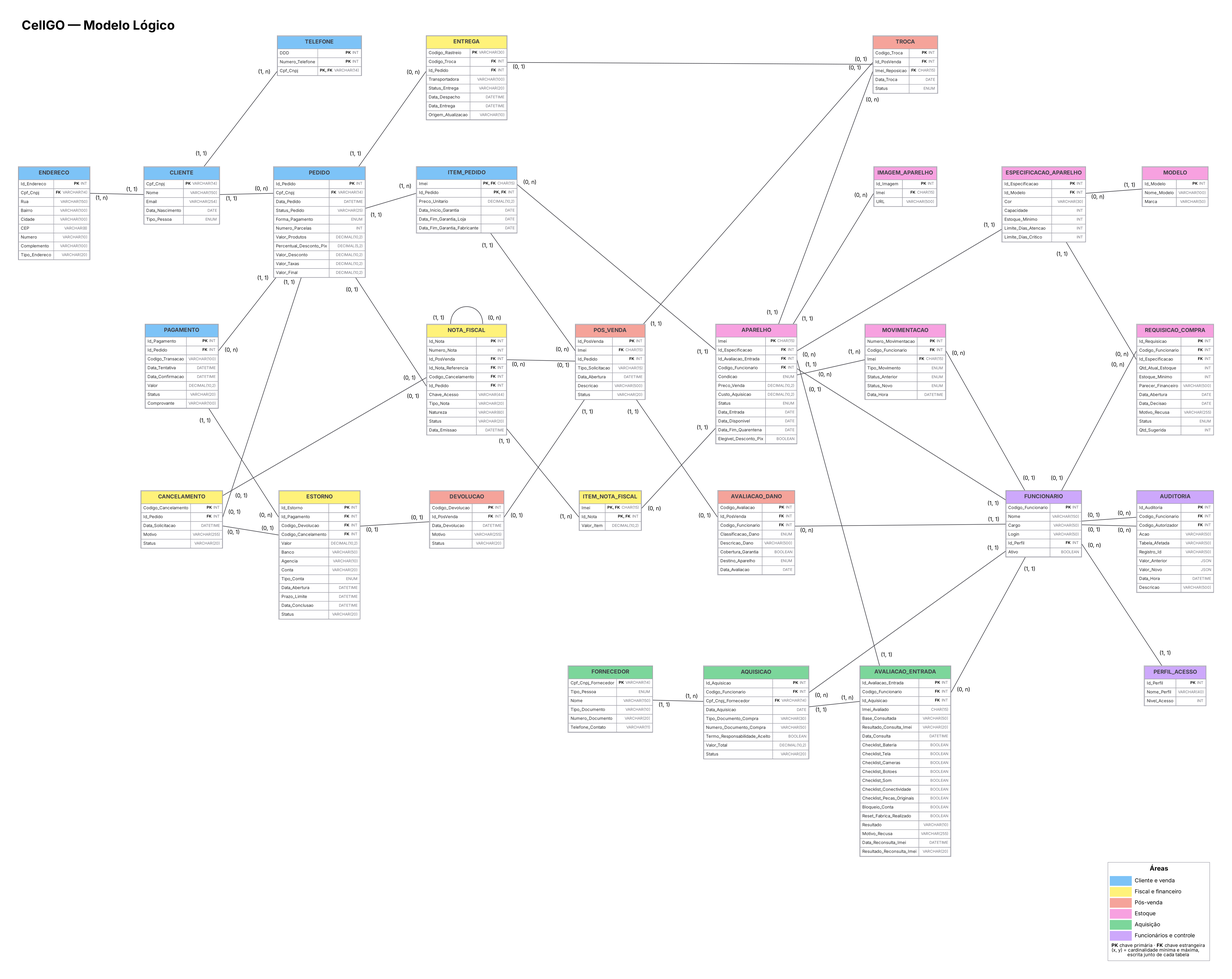
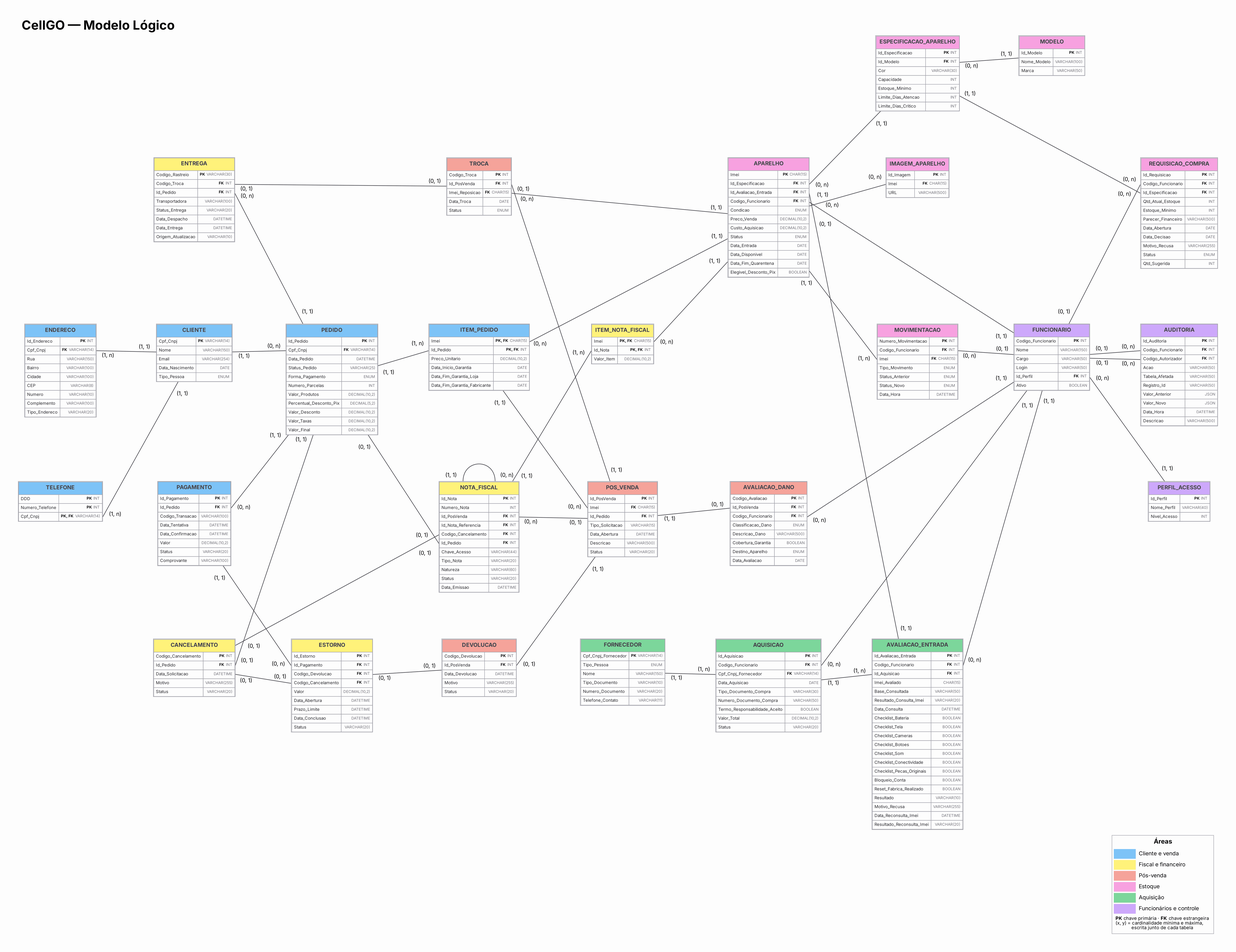
docs: remove boleto das formas de pagamento
Formas aceitas: somente Pix (sempre à vista) e cartão de crédito (1 a 12 parcelas). Atualiza caracterização, processos, fluxograma, RF-08, RF-09, RF-16, RNF-08, RN-10, RN-11, RN-19, Condições de Pagamento, dicionário de dados (ENUM de Forma_Pagamento e remoção dos dados bancários de ESTORNO), justificativas, conclusão e modelo lógico.

diff --git a/README.md b/README.md
@@ -24,7 +24,7 @@ CellGo Comércio de Celulares Ltda.
 E-commerce de celulares novos e seminovos.
 
 **O que ela vende ou oferece?**  
-Smartphones novos, lacrados e com garantia de fábrica; smartphones seminovos, revisados e certificados, com garantia própria da loja; pagamento por Pix, boleto ou cartão de crédito em até 12 parcelas; e vendas somente pelo canal on-line.
+Smartphones novos, lacrados e com garantia de fábrica; smartphones seminovos, revisados e certificados, com garantia própria da loja; pagamento somente por Pix (à vista) ou cartão de crédito (de 1 a 12 parcelas); e vendas somente pelo canal on-line.
 
 **Quem são seus principais clientes?**  
 Consumidores finais (pessoa física) que buscam smartphones com procedência garantida e preço mais acessível do que o de aparelhos novos — tanto quem quer um aparelho novo quanto quem prefere um seminovo confiável em vez de comprar no mercado informal. A empresa também atende pessoa jurídica, já que o cadastro de clientes contempla CNPJ além de CPF.
@@ -162,7 +162,7 @@ Esse caso é adequado para um projeto de modelagem de dados porque, além de par
 
 **Processo de venda em sequência**
 
-Cliente → Login/Cadastro → Escolha do aparelho → Verificação de disponibilidade → Escolha da forma de pagamento (Pix, cartão de crédito em até 12x ou boleto) → Apresentação do valor final (desconto no Pix ou valor das parcelas) → Confirmação da compra e pagamento → Confirmação do pagamento e nova verificação de disponibilidade → Aparelho marcado como Vendido → Emissão da nota fiscal → Separação do pedido → Envio pela transportadora (Em transporte) → Rastreamento → Entrega ao cliente (Entregue)
+Cliente → Login/Cadastro → Escolha do aparelho → Verificação de disponibilidade → Escolha da forma de pagamento (Pix à vista ou cartão de crédito em até 12x) → Apresentação do valor final (desconto no Pix ou valor das parcelas) → Confirmação da compra e pagamento → Confirmação do pagamento e nova verificação de disponibilidade → Aparelho marcado como Vendido → Emissão da nota fiscal → Separação do pedido → Envio pela transportadora (Em transporte) → Rastreamento → Entrega ao cliente (Entregue)
 
 **Se o aparelho estiver indisponível na escolha:**
 
@@ -287,15 +287,17 @@ O sistema deve calcular automaticamente o valor final da venda pela fórmula: Va
 O sistema deve aplicar o desconto automaticamente quando o pagamento for via Pix e o produto for elegível.
 
 - Faixas de desconto: produto de até R$ 1.000,00 = 5%; de R$ 1.001,00 a R$ 2.500,00 = 7%; acima de R$ 2.500,00 = 10%.
-- Não há desconto para pagamento com cartão de crédito ou boleto.
+- Não há desconto para pagamento com cartão de crédito.
 - O desconto deve ser mostrado antes da confirmação da compra. Se o produto não for elegível, o cliente também deve ser informado.
 - O percentual e o valor do desconto devem ficar registrados na venda.
 
 **RF-09 – Processar formas de pagamento** 
 
-O sistema deve aceitar apenas Pix, cartão de crédito e boleto bancário. Cartão de débito e dinheiro não são aceitos.
+O sistema deve aceitar apenas duas formas de pagamento: **Pix** e **cartão de crédito**. Boleto bancário, cartão de débito e dinheiro não são aceitos.
 
-- A forma de pagamento é obrigatória em toda venda e é escolhida no pedido, junto com o número de parcelas (no máximo 12, apenas no cartão de crédito).
+- A forma de pagamento é obrigatória em toda venda e é escolhida no pedido, junto com o número de parcelas.
+- Pix: pagamento sempre à vista (1 parcela), com desconto quando o produto for elegível (RF-08) e sem juros.
+- Cartão de crédito: de 1 a 12 parcelas, sem desconto Pix; juros ou taxas do parcelamento, quando houver, são mostrados antes da confirmação (RF-06).
 - Cada pedido é pago com uma única forma de pagamento. Não é permitido dividir o valor entre formas diferentes.
 - Cada cobrança enviada à instituição de pagamento é registrada como um pagamento (uma tentativa), com data, valor, código da transação e status: Pendente, Aprovado, Recusado, Expirado ou Estornado.
 - Um pedido pode ter várias tentativas (por exemplo, um Pix expirado seguido de um novo Pix), mas no máximo um pagamento Aprovado.
@@ -375,7 +377,7 @@ O sistema deve registrar a avaliação técnica de todo aparelho com dano e defi
 O sistema deve processar a devolução de valores ao cliente em casos de cancelamento ou devolução. A troca não gera estorno, pois o aparelho de reposição tem valor igual ou superior e não há cobrança nem devolução de diferença (RF-11).
 
 - Todo estorno é ligado ao pagamento Aprovado que está sendo revertido.
-- O estorno segue a forma de pagamento original: Pix, para a chave ou conta de origem; cartão de crédito, junto à operadora do cartão; boleto, por transferência bancária para a conta informada pelo cliente.
+- O estorno segue a forma de pagamento original: Pix, por devolução para a conta de origem do pagamento; cartão de crédito, por estorno solicitado à operadora do cartão. Como não há boleto, o sistema não precisa pedir nem guardar dados bancários do cliente.
 - O processo completo deve ser concluído em 7 a 15 dias corridos.
 - O sistema deve registrar o valor, a data de abertura, o prazo-limite (data de abertura + 15 dias) e o status do estorno: Pendente, Processado ou Recusado.
 - Se o prazo-limite for ultrapassado com o estorno ainda Pendente, o sistema deve sinalizá-lo como Atrasado (situação calculada, não um status gravado) e notificar o setor Financeiro/Administrativo.
@@ -541,7 +543,7 @@ Os registros de auditoria não podem ser alterados nem excluídos depois de grav
 O sistema deve se comunicar com os seguintes serviços externos:
 
 - SEFAZ, para emissão e cancelamento de notas fiscais eletrônicas;
-- instituições de pagamento e operadoras de cartão, para Pix, cartão de crédito, boleto e estornos;
+- instituições de pagamento e operadoras de cartão, para cobranças por Pix e cartão de crédito e para os estornos;
 - transportadora, para o rastreamento das entregas.
 
 
@@ -714,7 +716,7 @@ O sistema deve garantir que valores e prazos sejam calculados corretamente.
 - O desconto é aplicado somente quando a forma de pagamento é Pix.
 - Faixas confirmadas: produto até R$ 1.000,00 = 5%; de R$ 1.001,00 a R$ 2.500,00 = 7%; acima de R$ 2.500,00 = 10%.
 - Nem todos os produtos participarão do desconto Pix: a elegibilidade de cada produto ao desconto deverá ser configurável no cadastro do aparelho (RN-02).
-- Não será aplicado desconto para pagamentos via cartão de crédito ou boleto.
+- Não será aplicado desconto para pagamentos via cartão de crédito.
 - O desconto deverá ser apresentado ao cliente antes da confirmação da compra, incluindo os casos em que o produto não é elegível ao desconto.
 - O sistema deverá registrar o percentual e o valor do desconto na venda.
 
@@ -725,13 +727,15 @@ O sistema deve garantir que valores e prazos sejam calculados corretamente.
 
 **Regras:**
 - A venda deverá informar obrigatoriamente a forma de pagamento, escolhida no pedido.
-- Para cartão de crédito, deverá ser informado o número de parcelas (máximo 12).
+- Formas aceitas: somente Pix e cartão de crédito.
+- No Pix, o pagamento é sempre à vista (Numero_Parcelas = 1).
+- No cartão de crédito, deverá ser informado o número de parcelas (de 1 a 12).
 - Cada pedido é pago com uma única forma de pagamento; não é permitido dividir o valor entre formas diferentes.
 - Cada cobrança enviada à instituição de pagamento é registrada como um pagamento (tentativa), com status Pendente, Aprovado, Recusado, Expirado ou Estornado.
 - Um pedido pode ter várias tentativas de pagamento, mas no máximo um pagamento Aprovado.
 - Se o cliente trocar a forma de pagamento após uma tentativa recusada ou expirada, o pedido deverá ser recalculado (RN-09/RN-10) antes da nova tentativa, enquanto estiver Aguardando pagamento.
 - Uma venda somente passa para o status Pago após a aprovação do pagamento.
-- Cartão de débito não é aceito, por decisão do negócio.
+- Boleto bancário e cartão de débito não são aceitos, por decisão do negócio.
 
 **Resultado esperado:** Garantir o controle dos pagamentos e a correta vinculação entre venda e financeiro, com as formas de pagamento efetivamente aceitas pelo e-commerce.
 
@@ -865,9 +869,8 @@ O sistema deve garantir que valores e prazos sejam calculados corretamente.
 **Regras:**
 - Todo estorno deverá estar vinculado ao pagamento Aprovado que está sendo revertido.
 - O estorno deverá seguir a forma de pagamento original utilizada na venda.
-- Pagamentos via Pix deverão ser estornados diretamente para a chave/conta de origem.
+- Pagamentos via Pix deverão ser devolvidos para a conta de origem do pagamento.
 - Pagamentos via cartão de crédito deverão ser estornados junto à operadora do cartão.
-- Pagamentos via boleto deverão gerar restituição por transferência bancária, mediante dados informados pelo cliente.
 - O processo completo de estorno, da abertura da solicitação até a efetiva liberação do valor ao cliente, deverá ocorrer dentro do prazo de 7 a 15 dias corridos, podendo variar conforme a forma de pagamento.
 - O sistema deverá registrar valor, data de abertura, prazo-limite (data de abertura + 15 dias) e status do estorno (Pendente, Processado, Recusado).
 - Caso o prazo-limite seja ultrapassado com o estorno ainda Pendente, o sistema deverá sinalizá-lo como atrasado e notificar o perfil Financeiro/Administrativo (RN-24) para tratamento manual. "Atrasado" é uma situação calculada (prazo-limite vencido e status Pendente), e não um status gravado.
@@ -1035,11 +1038,17 @@ O sistema deve garantir que valores e prazos sejam calculados corretamente.
 
 ### Condições de Pagamento
 
-- **Formas aceitas:** Pix, cartão de crédito e boleto.
-- **Forma não aceita:** cartão de débito.
+- **Formas aceitas:** Pix (à vista) e cartão de crédito (de 1 a 12 parcelas).
+- **Formas não aceitas:** boleto bancário, cartão de débito e dinheiro.
 - **Parcelamento:** permitido somente no cartão de crédito, em até 12 vezes.
 - **Taxas do parcelamento:** os juros e encargos cobrados pela operadora do cartão, quando houver, são de responsabilidade do cliente.
 - **Confirmação:** a venda só é considerada paga após a confirmação do pagamento.
+- **Regras de consistência do pedido (usadas no banco de dados):**
+
+| Forma_Pagamento | Numero_Parcelas | Percentual_Desconto_Pix e Valor_Desconto | Valor_Taxas |
+|---|---|---|---|
+| Pix | sempre 1 | preenchidos se o produto for elegível (5%, 7% ou 10%); vazios se não for | vazio |
+| Cartão de crédito | de 1 a 12 | vazios | preenchido só se houver juros ou taxas do parcelamento |
 
 ## 10. Fluxogramas
 
@@ -1052,7 +1061,7 @@ flowchart TD
     C1["Escolhe o aparelho"]
     D1{"Aparelho disponível?"}
     E1["Aparelho indisponível:<br/>cliente é avisado"]:::red
-    F1["Escolhe a forma de pagamento<br/>(Pix, cartão de crédito em até 12x ou boleto)"]
+    F1["Escolhe a forma de pagamento<br/>(Pix à vista ou cartão de crédito em até 12x)"]
     G1["Sistema mostra o valor final<br/>(desconto no Pix ou valor das parcelas)"]
     H1["Cliente confirma a compra e paga"]
     I1{"Pagamento confirmado e<br/>aparelho ainda disponível?"}
@@ -1284,10 +1293,6 @@ flowchart TD
 - Codigo_Devolucao (FK)
 - Codigo_Cancelamento (FK)
 - Valor
-- Banco
-- Agencia
-- Conta
-- Tipo_Conta
 - Data_Abertura
 - Prazo_Limite
 - Data_Conclusao
@@ -1727,13 +1732,13 @@ A venda feita a um cliente e suas condições comerciais: forma de pagamento esc
 | Cpf_Cnpj | FK | VARCHAR | Referencia o CLIENTE que realizou o pedido. | 14 | NÃO |
 | Data_Pedido | — | DATETIME | Data e hora em que o pedido foi realizado. | — | NÃO |
 | Status_Pedido | — | VARCHAR | Situação do pedido: Aberto, Aguardando pagamento, Pago, Finalizado ou Cancelado. | 25 | NÃO |
-| Forma_Pagamento | — | ENUM | Forma de pagamento escolhida: Pix, Cartão de crédito ou Boleto. Define o desconto e as taxas. | — | NÃO |
-| Numero_Parcelas | — | INT | Quantidade de parcelas (1 a 12; maior que 1 apenas no cartão de crédito). | — | NÃO |
+| Forma_Pagamento | — | ENUM | Forma de pagamento escolhida. Valores permitidos: Pix ou Cartão de crédito (boleto e débito não são aceitos). Define o desconto, as parcelas e as taxas. | — | NÃO |
+| Numero_Parcelas | — | INT | Quantidade de parcelas. Pix: sempre 1. Cartão de crédito: de 1 a 12. | — | NÃO |
 | Valor_Produtos | Derivado | DECIMAL | Soma dos preços dos aparelhos do pedido (ITEM_PEDIDO). | (10,2) | NÃO |
-| Percentual_Desconto_Pix | — | DECIMAL | Percentual de desconto Pix aplicado (5, 7 ou 10). Vazio quando não há desconto. | (5,2) | SIM |
-| Valor_Desconto | — | DECIMAL | Valor do desconto aplicado ao pedido. | (10,2) | SIM |
-| Valor_Taxas | — | DECIMAL | Juros ou taxas do parcelamento, quando houver. | (10,2) | SIM |
-| Valor_Final | Derivado | DECIMAL | Valor_Produtos − Valor_Desconto + Valor_Taxas. | (10,2) | NÃO |
+| Percentual_Desconto_Pix | — | DECIMAL | Percentual de desconto aplicado (5, 7 ou 10). Preenchido só quando a forma de pagamento é Pix e o produto é elegível; vazio no cartão de crédito. | (5,2) | SIM |
+| Valor_Desconto | — | DECIMAL | Valor do desconto Pix aplicado ao pedido. Vazio no cartão de crédito. | (10,2) | SIM |
+| Valor_Taxas | — | DECIMAL | Juros ou taxas do parcelamento no cartão de crédito, quando houver. Vazio no Pix. | (10,2) | SIM |
+| Valor_Final | Derivado | DECIMAL | Valor_Produtos − Valor_Desconto + Valor_Taxas (campos vazios contam como zero). | (10,2) | NÃO |
 
 
 ### 5. ITEM_PEDIDO
@@ -1758,7 +1763,7 @@ Cada tentativa de cobrança do pedido enviada à instituição de pagamento. A f
 |---|---|---|---|---|---|
 | Id_Pagamento | PK | INT | Identificador único do pagamento. | — | NÃO |
 | Id_Pedido | FK | INT | Referencia o PEDIDO cobrado. | — | NÃO |
-| Codigo_Transacao | — | VARCHAR | Identificador da transação na instituição de pagamento (txid do Pix, NSU do cartão ou nosso número do boleto). | 100 | SIM |
+| Codigo_Transacao | — | VARCHAR | Identificador da transação na instituição de pagamento: txid do Pix ou código de autorização (NSU) do cartão de crédito. | 100 | SIM |
 | Data_Tentativa | — | DATETIME | Data e hora em que a cobrança foi gerada. | — | NÃO |
 | Data_Confirmacao | — | DATETIME | Data e hora da aprovação. Vazia enquanto o pagamento não for aprovado. | — | SIM |
 | Valor | — | DECIMAL | Valor cobrado nesta tentativa (Valor_Final do pedido no momento da cobrança). | (10,2) | NÃO |
@@ -1816,14 +1821,10 @@ Devolução de valor ao cliente, originada por um cancelamento ou por uma devolu
 | Nome do campo | Chave | Tipo do dado | Descrição/Regra de negócio | Tamanho/precisão | Nulo? |
 |---|---|---|---|---|---|
 | Id_Estorno | PK | INT | Identificador único do estorno. | — | NÃO |
-| Id_Pagamento | FK | INT | Referencia o PAGAMENTO Aprovado que está sendo revertido. A forma de restituição vem da forma de pagamento do pedido (Pix → Pix; cartão → estorno no cartão; boleto → transferência). | — | NÃO |
+| Id_Pagamento | FK | INT | Referencia o PAGAMENTO Aprovado que está sendo revertido. A forma de restituição vem da forma de pagamento do pedido: Pix → devolução Pix para a conta de origem; cartão de crédito → estorno na operadora. | — | NÃO |
 | Codigo_Devolucao | FK | INT | Referencia a DEVOLUCAO que originou o estorno, quando aplicável. | — | SIM |
 | Codigo_Cancelamento | FK | INT | Referencia o CANCELAMENTO que originou o estorno, quando aplicável. Apenas uma das duas origens é preenchida. | — | SIM |
 | Valor | — | DECIMAL | Valor a restituir ao cliente. | (10,2) | NÃO |
-| Banco | — | VARCHAR | Código ou nome do banco para a transferência. Preenchido só quando o pagamento original foi por boleto (LGPD: coletado só quando necessário). | 50 | SIM |
-| Agencia | — | VARCHAR | Agência bancária, apenas números. Preenchida só na restituição por transferência. | 10 | SIM |
-| Conta | — | VARCHAR | Número da conta com dígito. Preenchido só na restituição por transferência. | 20 | SIM |
-| Tipo_Conta | — | ENUM | Corrente ou Poupança. Preenchido só na restituição por transferência. | — | SIM |
 | Data_Abertura | — | DATETIME | Data e hora de abertura do estorno. | — | NÃO |
 | Prazo_Limite | Derivado | DATETIME | Data_Abertura + 15 dias. O estorno é considerado atrasado se esse prazo vencer com status Pendente. | — | NÃO |
 | Data_Conclusao | — | DATETIME | Data em que o estorno foi concluído. | — | SIM |
@@ -2393,7 +2394,7 @@ Com essa separação, cada status descreve uma única coisa: Status_Pedido diz e
 
 **Decisão:** Todo ESTORNO tem uma chave estrangeira obrigatória para o PAGAMENTO que está sendo revertido (Id_Pagamento) e duas chaves estrangeiras opcionais de origem, Codigo_Cancelamento e Codigo_Devolucao, das quais apenas uma é preenchida.
 
-**Justificativa:** A RN-19 determina que o estorno siga a forma de pagamento original: Pix para a conta de origem, cartão junto à operadora e boleto por transferência. Para isso, o estorno precisa saber qual cobrança está desfazendo, e essa informação está no pagamento aprovado (código da transação, valor e data). Sem esse vínculo, o sistema teria de "adivinhar" o pagamento a partir do pedido. A forma de restituição não é guardada no ESTORNO, porque é determinada pela forma de pagamento do pedido (Pix → Pix; cartão → estorno no cartão; boleto → transferência bancária); guardá-la também seria uma dependência transitiva. Um mesmo pagamento pode ter mais de um estorno quando o pedido tem vários aparelhos e mais de um deles é devolvido (cardinalidade 1 : 0..N).
+**Justificativa:** A RN-19 determina que o estorno siga a forma de pagamento original: Pix devolvido para a conta de origem e cartão estornado junto à operadora. Para isso, o estorno precisa saber qual cobrança está desfazendo, e essa informação está no pagamento aprovado (código da transação, valor e data). Sem esse vínculo, o sistema teria de "adivinhar" o pagamento a partir do pedido. A forma de restituição não é guardada no ESTORNO, porque é determinada pela forma de pagamento do pedido (Pix → devolução Pix; cartão → estorno no cartão); guardá-la também seria uma dependência transitiva. Um mesmo pagamento pode ter mais de um estorno quando o pedido tem vários aparelhos e mais de um deles é devolvido (cardinalidade 1 : 0..N).
 
 Quanto à origem, a RN-19 prevê estorno em duas situações diferentes: quando o pedido é cancelado antes do envio e o pagamento já tinha sido feito (RN-13), e quando há devolução, por arrependimento (RN-15) ou por defeito (RN-16). A troca não gera estorno, porque o aparelho de reposição tem valor igual ou superior e não há diferença a devolver ao cliente (RN-14). Um mesmo estorno nunca nasce de um cancelamento e de uma devolução ao mesmo tempo. Usar duas chaves estrangeiras com nomes claros, em vez de um único campo genérico de "origem", deixa evidente de onde veio cada estorno. A garantia de que apenas uma das duas é preenchida é registrada como restrição do modelo e verificada pelo sistema no momento da gravação. A situação "atrasado" não é gravada como status: ela é calculada pela comparação entre o Prazo_Limite e a data atual enquanto o estorno estiver Pendente.
 
@@ -2403,11 +2404,11 @@ Quanto à origem, a RN-19 prevê estorno em duas situações diferentes: quando 
 
 **Justificativa:** As regras de negócio determinam que cada solicitação gere no máximo um resultado de cada tipo: uma solicitação de pós-venda gera no máximo uma troca e no máximo uma devolução, e um cancelamento gera no máximo um estorno. A cardinalidade 0..1 impede, já no modelo de dados, que esses registros sejam duplicados. Além disso, a RN-14 determina que uma mesma solicitação resulte em troca ou em devolução, nunca nas duas. Como a cardinalidade sozinha não consegue expressar essa escolha entre dois relacionamentos, ela é registrada como restrição do modelo e verificada pelo sistema.
 
-### Dados bancários restritos ao registro de estorno (LGPD)
+### Nenhum dado bancário armazenado (LGPD)
 
-**Decisão:** Os dados bancários (Banco, Agencia, Conta e Tipo_Conta) existem apenas em ESTORNO, e não em CLIENTE ou em qualquer outra entidade. Cada um é um atributo separado.
+**Decisão:** O sistema não guarda dados bancários do cliente (banco, agência ou conta) em nenhuma entidade.
 
-**Justificativa:** A RNF-02 exige que o sistema guarde o mínimo possível de dados pessoais. O dado bancário só é necessário quando o pagamento original foi feito por boleto e existe um valor a devolver, que é restituído por transferência bancária (RN-19). Em nenhum outro processo do sistema ele é usado. Guardá-lo em CLIENTE manteria essa informação armazenada para sempre, inclusive de clientes que nunca precisaram de restituição, o que aumentaria sem necessidade a quantidade de dados sensíveis protegidos pela LGPD. Ligando o dado apenas ao estorno, ele é coletado somente quando realmente é necessário. Os dados foram divididos em quatro atributos, em vez de um único texto, para que cada campo guarde um único valor, como exige a 1ª Forma Normal; assim é possível, por exemplo, validar a agência e a conta separadamente.
+**Justificativa:** A RNF-02 exige que o sistema guarde o mínimo possível de dados pessoais. Como a loja aceita apenas Pix e cartão de crédito, todo estorno volta pelo mesmo meio usado na compra: o Pix é devolvido para a conta de origem pela própria instituição de pagamento, e o cartão é estornado junto à operadora, a partir do código da transação registrado em PAGAMENTO (RN-19). Em nenhum desses casos a loja precisa conhecer a conta bancária do cliente. Por isso, ESTORNO não tem atributos bancários, o que elimina um dado pessoal sensível do banco de dados e reduz o risco em caso de vazamento.
 
 ### MOVIMENTACAO como histórico de mudanças de status do APARELHO
 
@@ -2454,7 +2455,7 @@ A quarentena não precisou de uma entidade nova: ela é um status do APARELHO (E
 
 **Justificativa:**
 
-**1ª Forma Normal (valores atômicos, sem grupos repetidos).** Todas as tabelas têm chave primária, e cada campo guarda um único valor. Os dados que podem se repetir para um mesmo registro ganharam tabelas próprias: telefones (TELEFONE), endereços (ENDERECO), fotos (IMAGEM_APARELHO), itens do pedido (ITEM_PEDIDO) e itens da nota (ITEM_NOTA_FISCAL). Os dados bancários do estorno foram divididos em Banco, Agencia, Conta e Tipo_Conta. Os campos Valor_Anterior e Valor_Novo de AUDITORIA usam JSON porque guardam uma cópia do registro alterado apenas para consulta: o sistema nunca pesquisa nem altera dados dentro desse conteúdo, e ele não pode mais ser modificado depois de gravado (RNF-07).
+**1ª Forma Normal (valores atômicos, sem grupos repetidos).** Todas as tabelas têm chave primária, e cada campo guarda um único valor. Os dados que podem se repetir para um mesmo registro ganharam tabelas próprias: telefones (TELEFONE), endereços (ENDERECO), fotos (IMAGEM_APARELHO), itens do pedido (ITEM_PEDIDO) e itens da nota (ITEM_NOTA_FISCAL). Os campos Valor_Anterior e Valor_Novo de AUDITORIA usam JSON porque guardam uma cópia do registro alterado apenas para consulta: o sistema nunca pesquisa nem altera dados dentro desse conteúdo, e ele não pode mais ser modificado depois de gravado (RNF-07).
 
 **2ª Forma Normal (sem dependência de parte da chave).** Só se aplica às tabelas com chave composta, e as três atendem: em TELEFONE não há atributos fora da chave; em ITEM_PEDIDO, o preço praticado e as datas de garantia dependem do par pedido + aparelho, e não de só um deles; em ITEM_NOTA_FISCAL, o valor do item depende do par nota + aparelho.
 
@@ -2481,7 +2482,7 @@ Em todos os casos, o valor é calculado pelo sistema no momento da gravação e 
 
 A CellGo Comércio de Celulares Ltda. vende aparelhos novos e seminovos exclusivamente pela internet. Por ser um e-commerce, a empresa não tem loja física, vendedor, comissão nem desconto negociado, e toda a relação com o cliente acontece on-line, do cadastro até o pós-venda. Sem um sistema que integre vendas, estoque, assistência técnica e financeiro, a empresa corre riscos concretos: vender um aparelho que já não está disponível, aceitar uma troca fora da garantia, perder o prazo de um estorno ou deixar uma devolução sem a nota fiscal correta. O problema, portanto, não é de tecnologia, mas de informação que não circula entre as áreas.
 
-O ERP proposto reduz esses riscos pela forma como organiza os dados. Cada aparelho é controlado individualmente pelo IMEI, com seu próprio status, histórico de movimentações e tempo parado em estoque, e só entra no estoque depois de ter a procedência comprovada: o sistema registra quem vendeu o aparelho à loja, o documento da compra, a consulta do IMEI, o checklist técnico e, para seminovos comprados de pessoa física, a quarentena. Não existe reserva de aparelhos: a disponibilidade é conferida no fechamento da venda, e o aparelho só passa a constar como vendido quando o pagamento é aprovado. O pedido guarda as condições da venda, e cada tentativa de cobrança fica registrada como um pagamento separado. As formas de pagamento aceitas são Pix, cartão de crédito em até 12 vezes e boleto. O único desconto é o do Pix, aplicado automaticamente conforme a faixa de preço e apenas aos produtos elegíveis.
+O ERP proposto reduz esses riscos pela forma como organiza os dados. Cada aparelho é controlado individualmente pelo IMEI, com seu próprio status, histórico de movimentações e tempo parado em estoque, e só entra no estoque depois de ter a procedência comprovada: o sistema registra quem vendeu o aparelho à loja, o documento da compra, a consulta do IMEI, o checklist técnico e, para seminovos comprados de pessoa física, a quarentena. Não existe reserva de aparelhos: a disponibilidade é conferida no fechamento da venda, e o aparelho só passa a constar como vendido quando o pagamento é aprovado. O pedido guarda as condições da venda, e cada tentativa de cobrança fica registrada como um pagamento separado. As formas de pagamento aceitas são apenas Pix, sempre à vista, e cartão de crédito, de 1 a 12 vezes. O único desconto é o do Pix, aplicado automaticamente conforme a faixa de preço e apenas aos produtos elegíveis.
 
 A entrega é acompanhada por meio de integração com o sistema da transportadora, e o status do envio define o que o cliente pode solicitar. Enquanto o aparelho aguarda envio e dentro de 7 dias da compra, é possível cancelar a venda. Depois do despacho, o cliente pode pedir a devolução por arrependimento, em até 7 dias após o recebimento, ou o atendimento por defeito. A troca só é feita quando o defeito é coberto pela garantia da loja, em até 30 dias da compra, e sempre por um aparelho equivalente disponível em estoque. Se não houver aparelho equivalente, a empresa faz a devolução com restituição integral do valor. Danos causados por mau uso, identificados na avaliação técnica, não são cobertos nem reparados.
 
